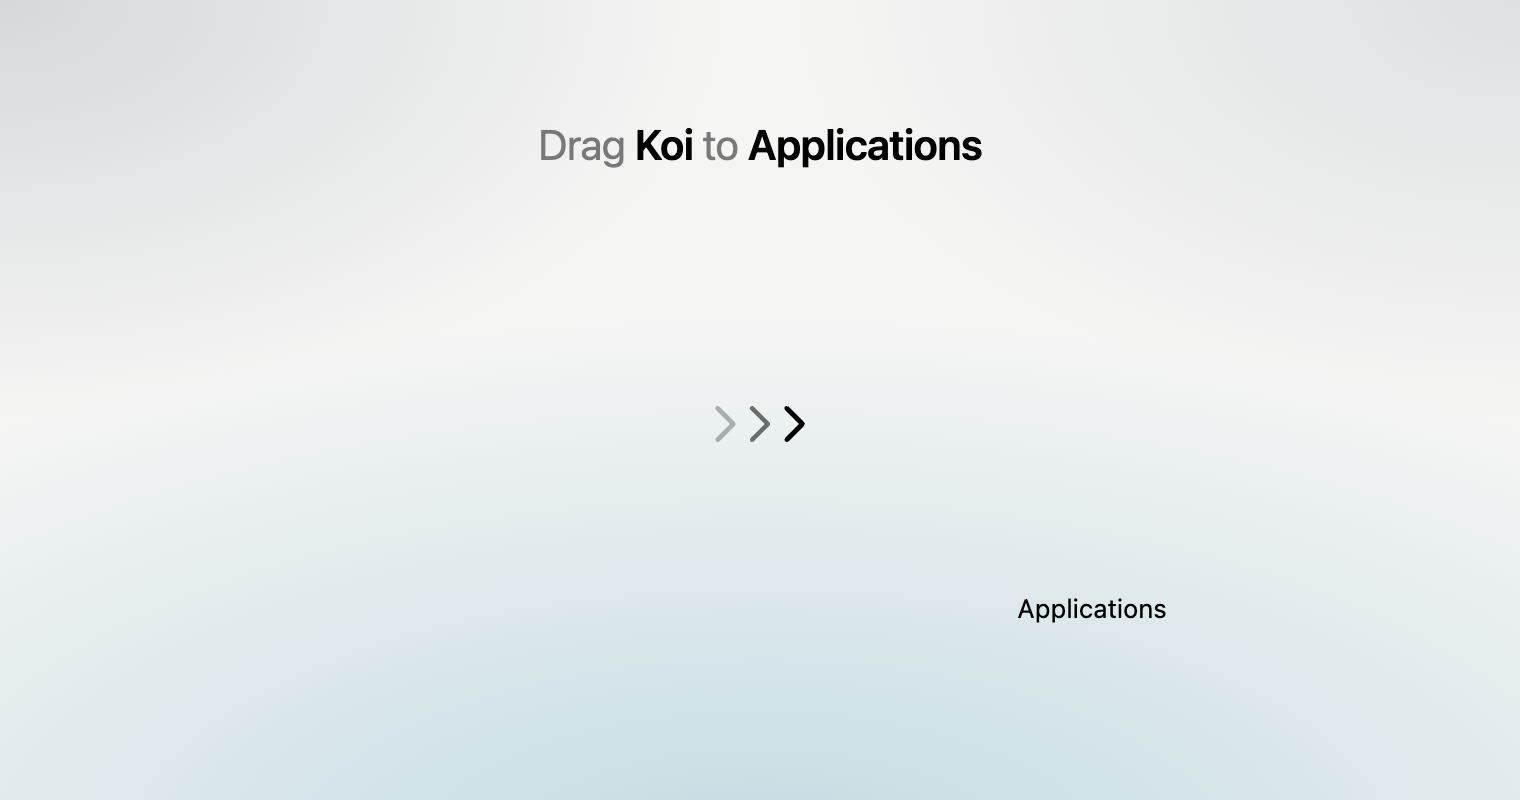
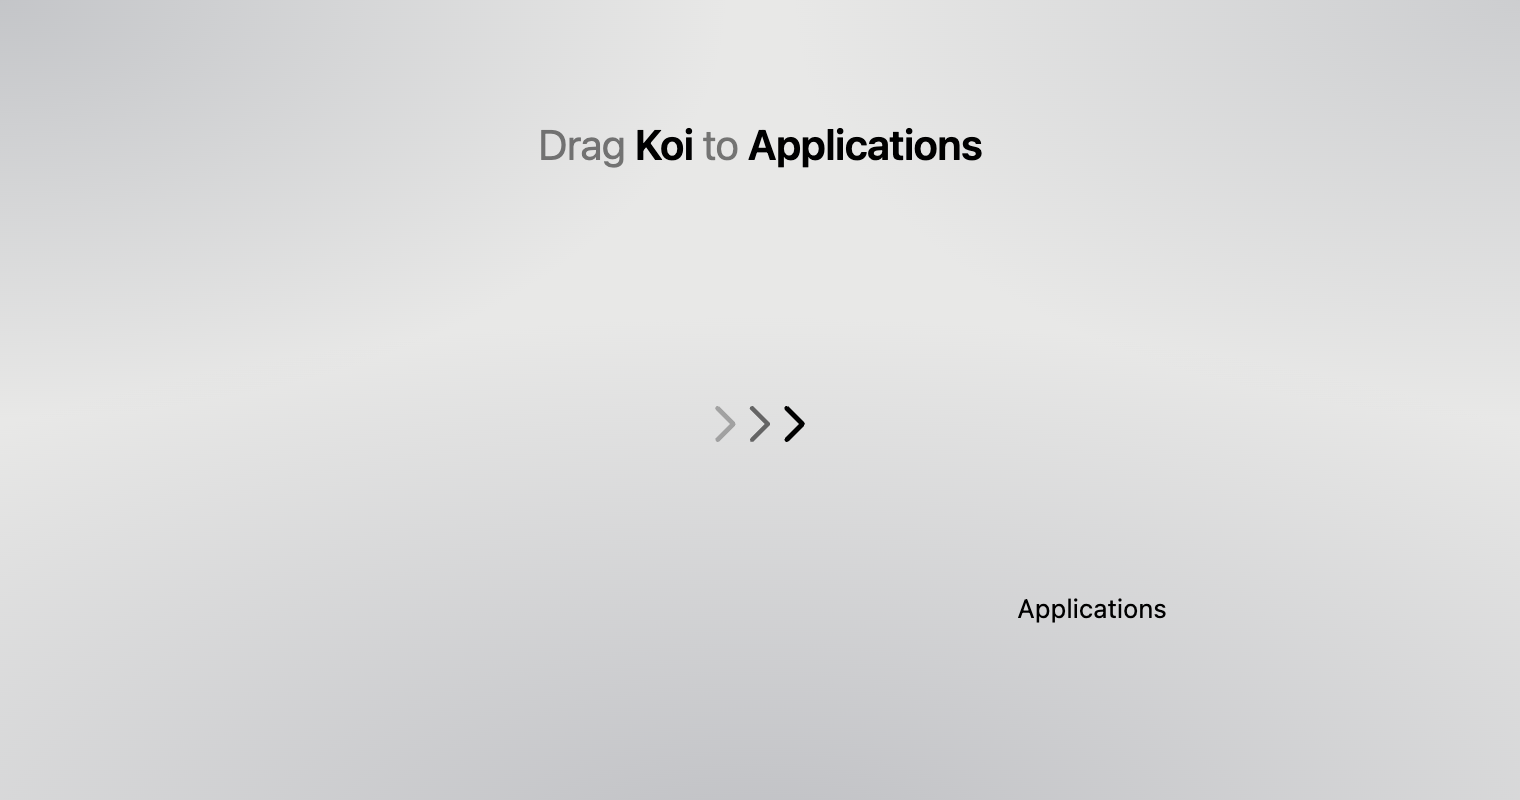
update installer window

Changed region(s): [[0.1855, 0.8125, 0.8039, 1.0]]

diff --git a/scripts/dmg-background.html b/scripts/dmg-background.html
@@ -11,7 +11,7 @@
 <style>
 html,body{margin:0}
 body{width:760px;height:400px;position:relative;overflow:hidden;font-family:-apple-system,BlinkMacSystemFont,system-ui,sans-serif;
-background:radial-gradient(520px 300px at 0% 0%,rgba(172,176,184,.42),transparent 70%),radial-gradient(520px 300px at 100% 0%,rgba(172,176,184,.3),transparent 70%),radial-gradient(880px 380px at 50% 108%,rgb(195,219,226),transparent 72%),#f5f5f4}
+background:radial-gradient(520px 300px at 0% 0%,rgba(160,163,170,.5),transparent 70%),radial-gradient(520px 300px at 100% 0%,rgba(160,163,170,.38),transparent 70%),radial-gradient(880px 380px at 50% 108%,rgb(190,191,195),transparent 72%),#e8e8e7}
 p{position:absolute;left:0;right:0;top:58px;margin:0;text-align:center;font-size:21px;line-height:28px;letter-spacing:-.01em;color:rgba(0,0,0,.5)}
 p b{font-weight:600;color:#000}
 svg{position:absolute;left:354px;top:201px;width:52px;height:22px;fill:none;stroke:#000;stroke-width:3;stroke-linecap:round;stroke-linejoin:round}
